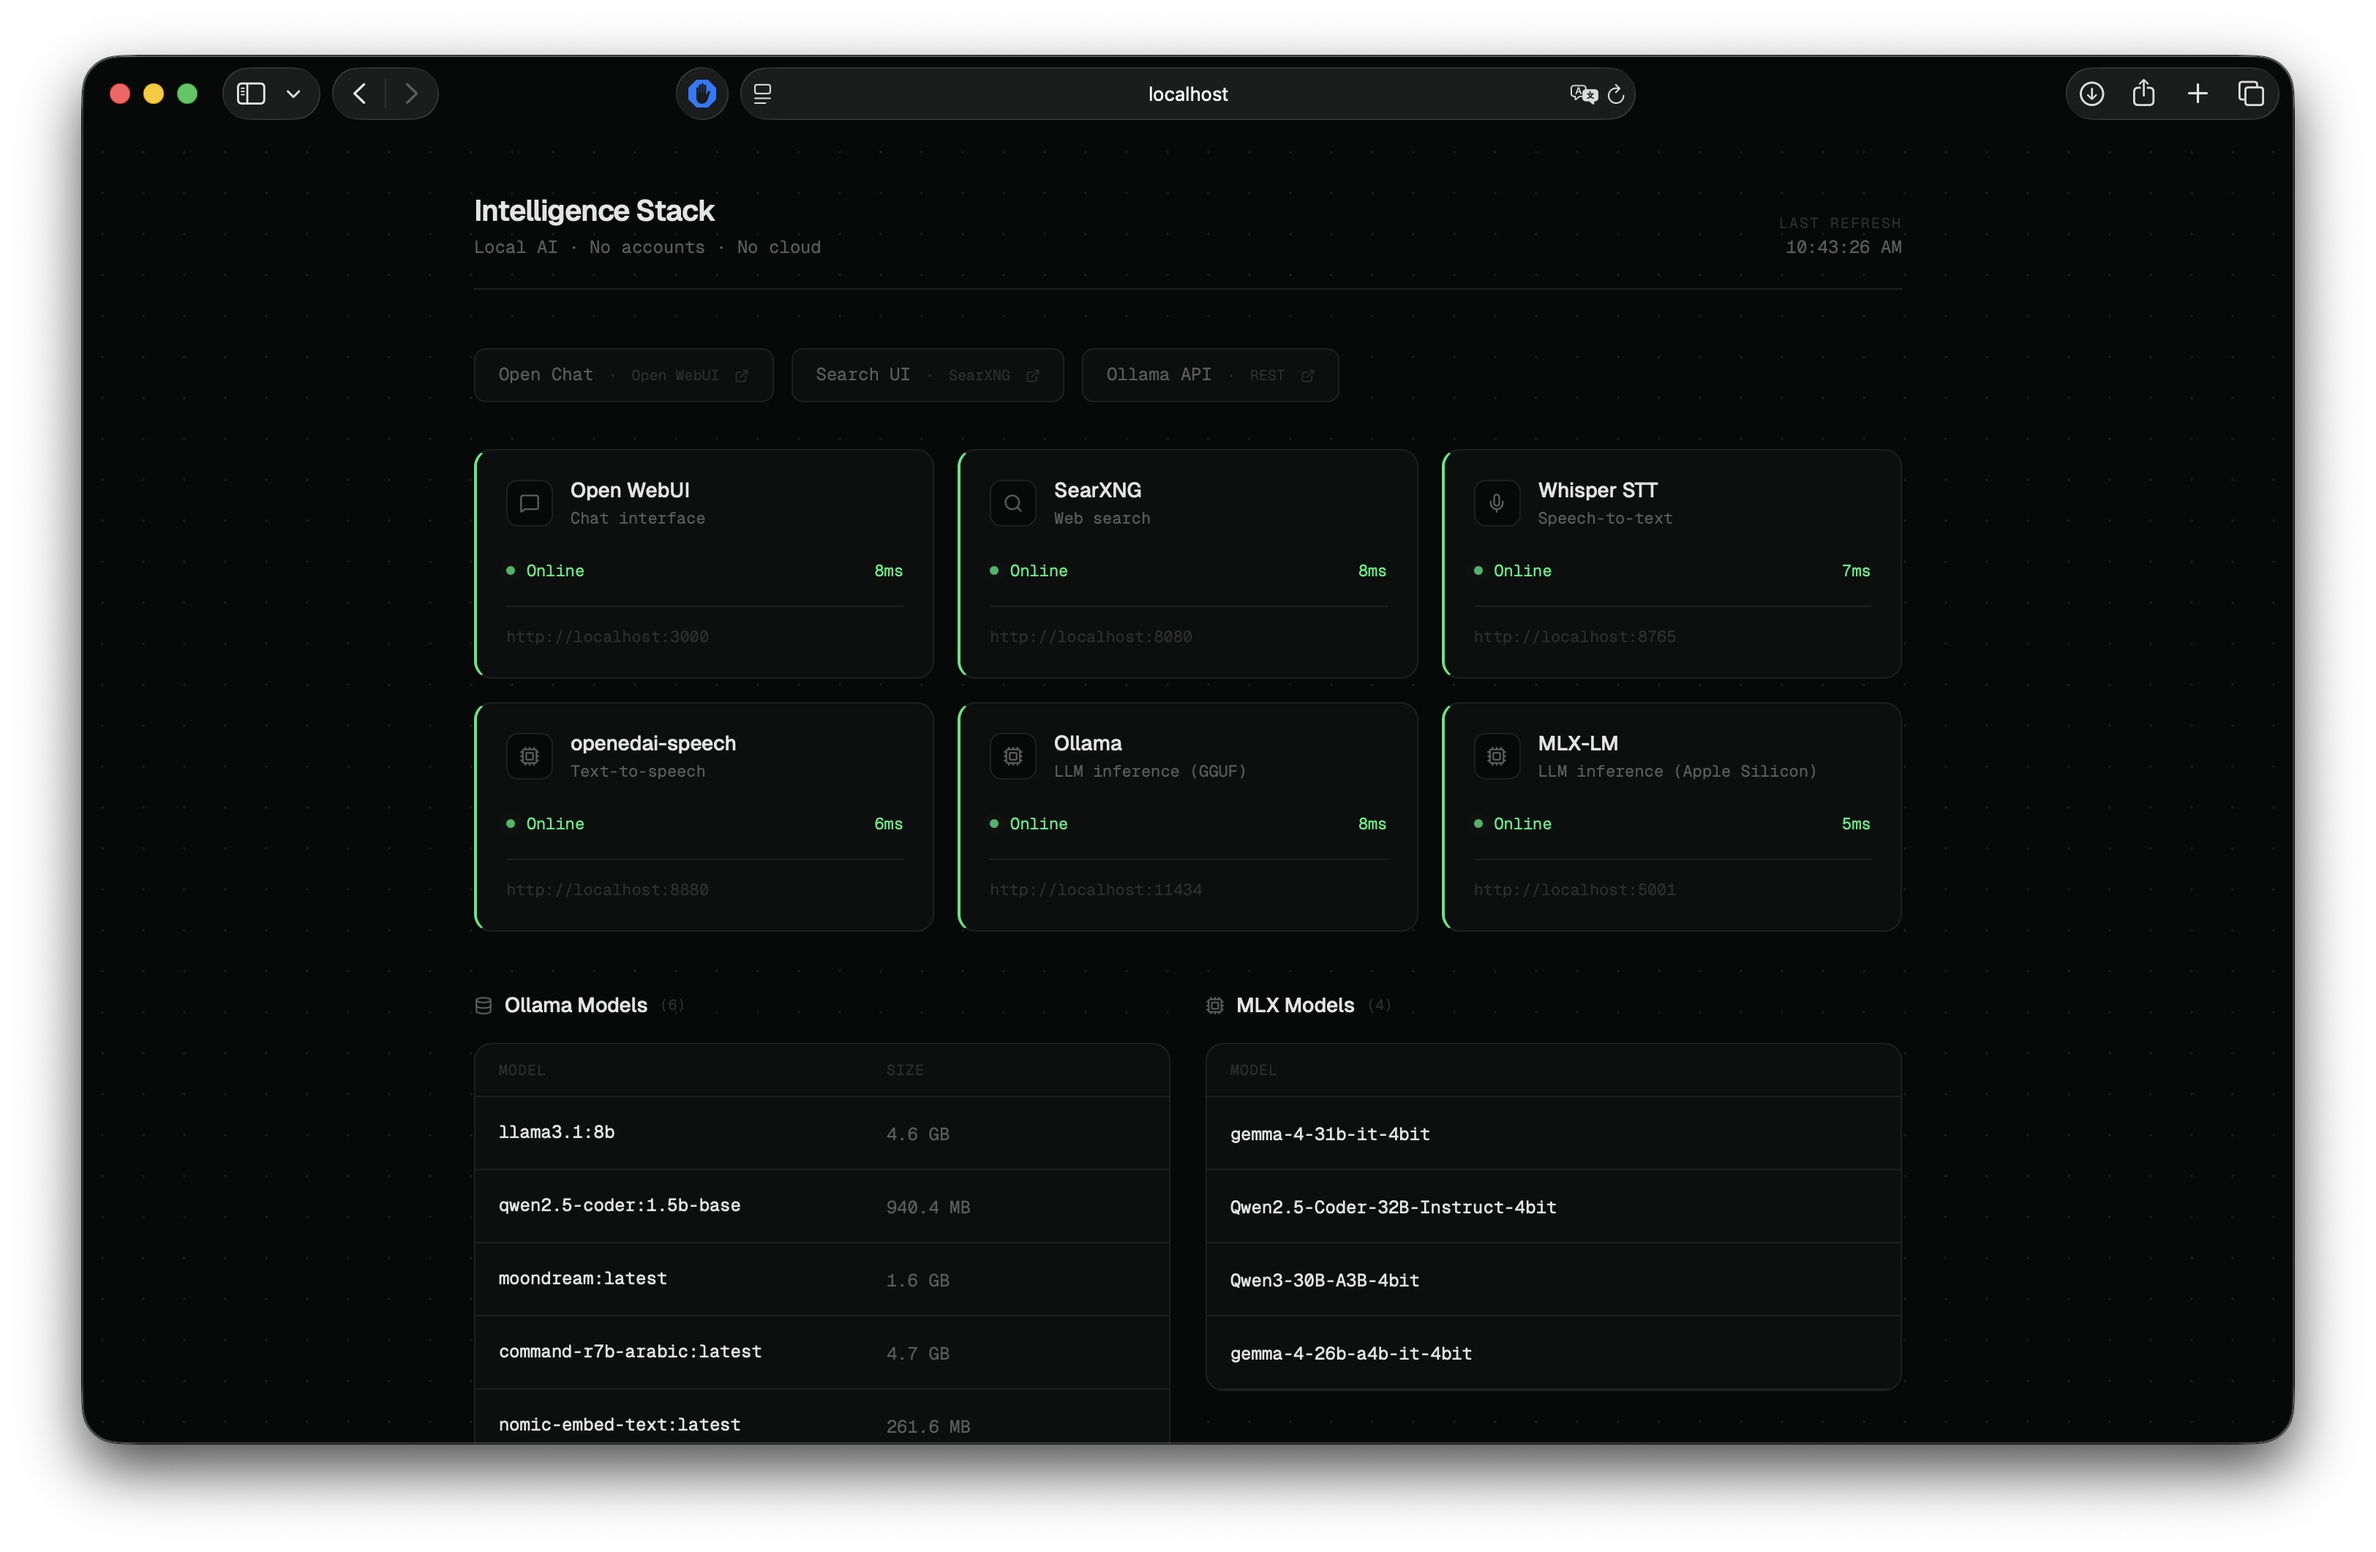
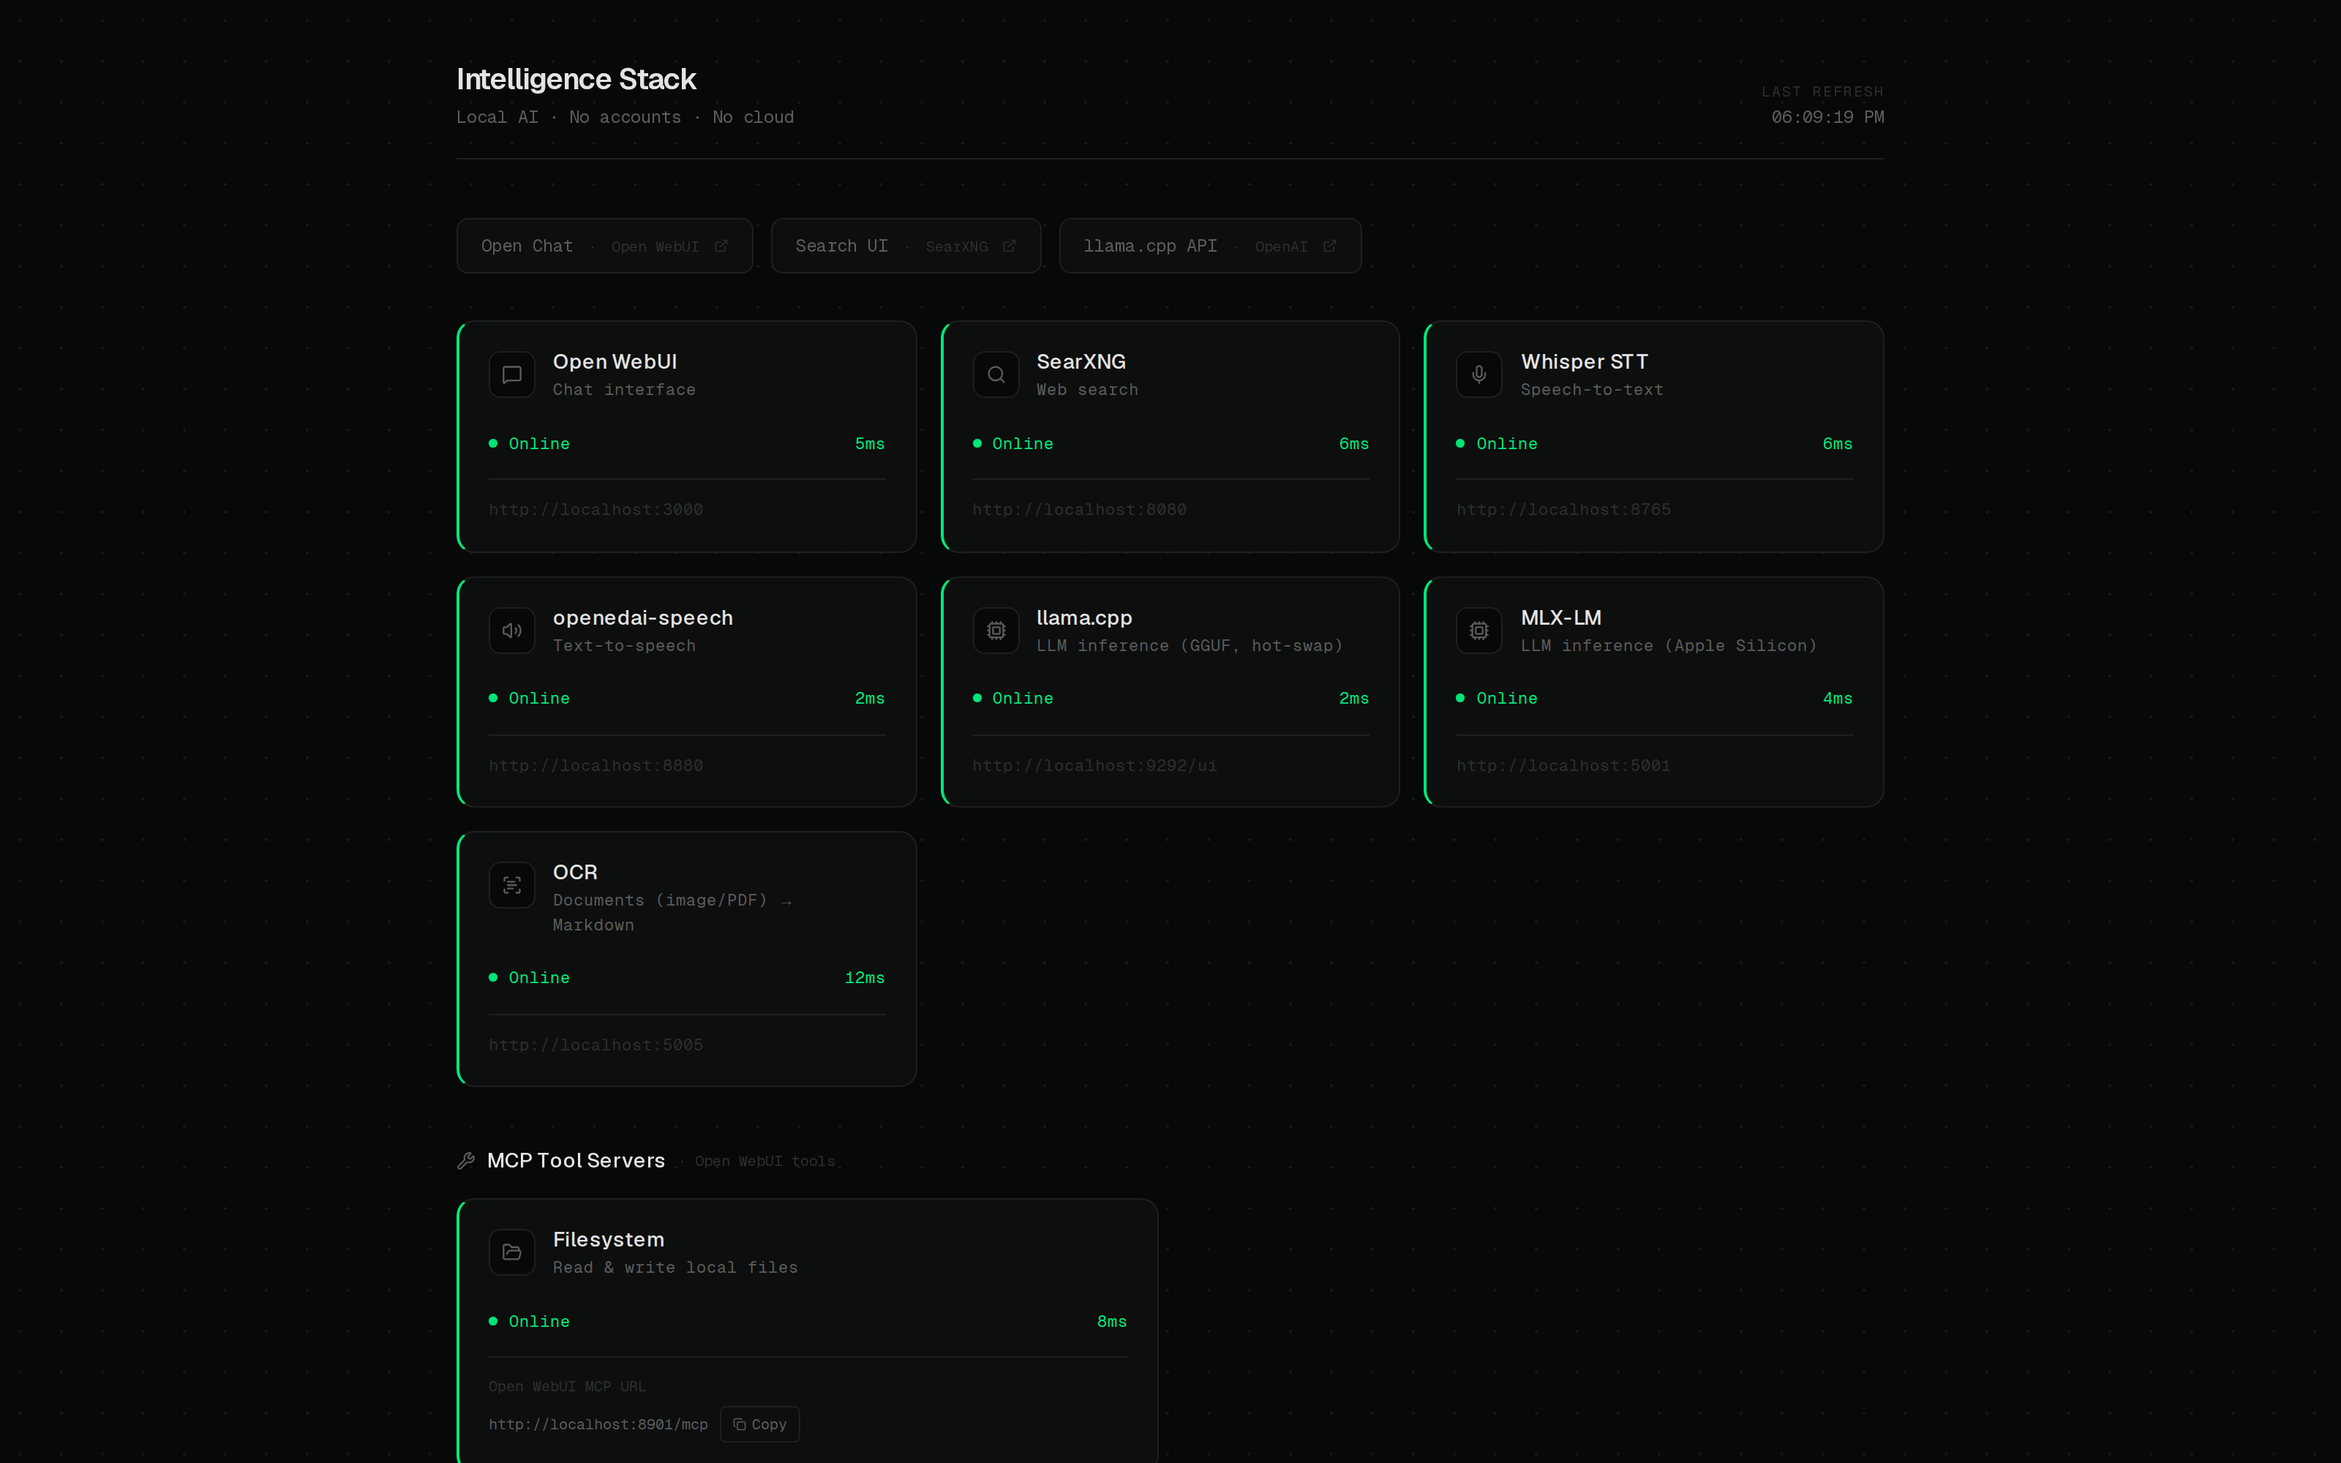
tools-ui: rename app to OCR; refresh dashboard and search screenshots

diff --git a/tools-ui/app.py b/tools-ui/app.py
@@ -1,6 +1,6 @@
 #!/usr/bin/env python3
 """
-app.py — "OCR & Scores" web UI for the Intelligence Stack.
+app.py — OCR web UI for the Intelligence Stack.
 
 Two tabs, served on 0.0.0.0:5005 (browser: http://localhost:5005):
   * OCR                       — image/PDF -> text or Markdown (Baidu Unlimited-OCR)
@@ -170,9 +170,9 @@ CSS = """
 footer { visibility: hidden; }
 """
 
-with gr.Blocks(title="OCR & Scores — Intelligence Stack", theme=gr.themes.Soft(), css=CSS) as demo:
+with gr.Blocks(title="OCR — Intelligence Stack", theme=gr.themes.Soft(), css=CSS) as demo:
     with gr.Column(elem_id="hdr"):
-        gr.Markdown("# OCR & Scores")
+        gr.Markdown("# OCR")
         gr.Markdown("Local & offline. **OCR reads the _text_; the score tab reads the _notes_.**")
     badge = gr.Markdown(_status_badge(), elem_id="badge")
     gr.Timer(3.0).tick(_status_badge, outputs=badge)

diff --git a/README.md b/README.md
@@ -58,7 +58,7 @@ The dashboard is at **http://localhost:3001**.
 | | |
 |---|---|
 | ![Open WebUI](docs/webui.png) | ![Dashboard](docs/dashboard.png) |
-| **Open WebUI** — chat interface with all local models (llama.cpp + MLX) | **Dashboard** — live service health and model browser |
+| **Open WebUI** — chat interface with all local models (llama.cpp + MLX) | **Dashboard** — live service health at a glance |
 | ![SearXNG](docs/searchxng.png) | ![Status](docs/status_command.png) |
 | **SearXNG** — self-hosted metasearch with category tabs | **`./status.sh`** — terminal health check |
 
